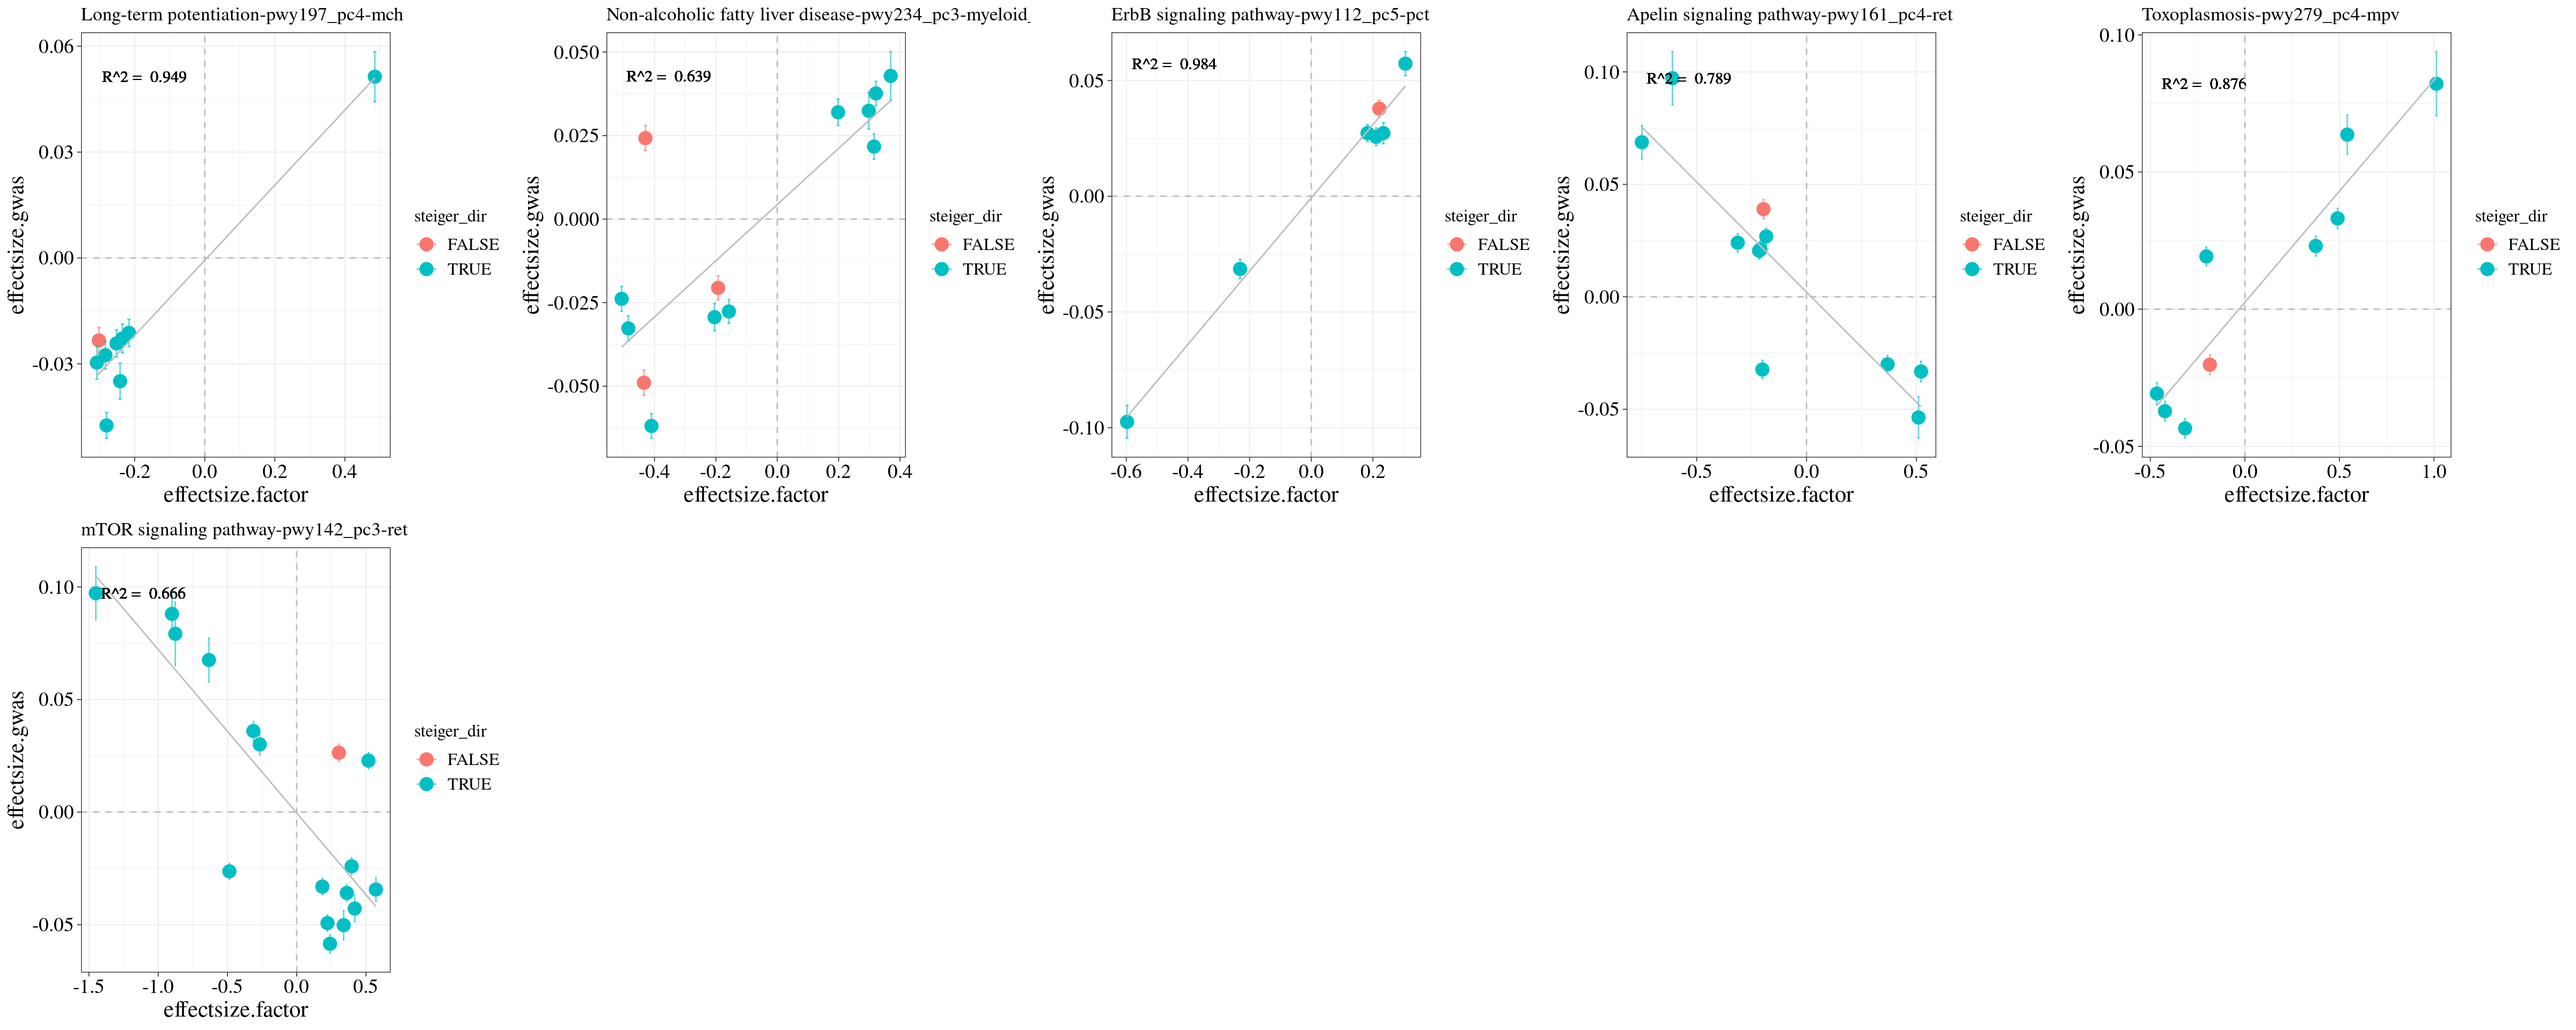
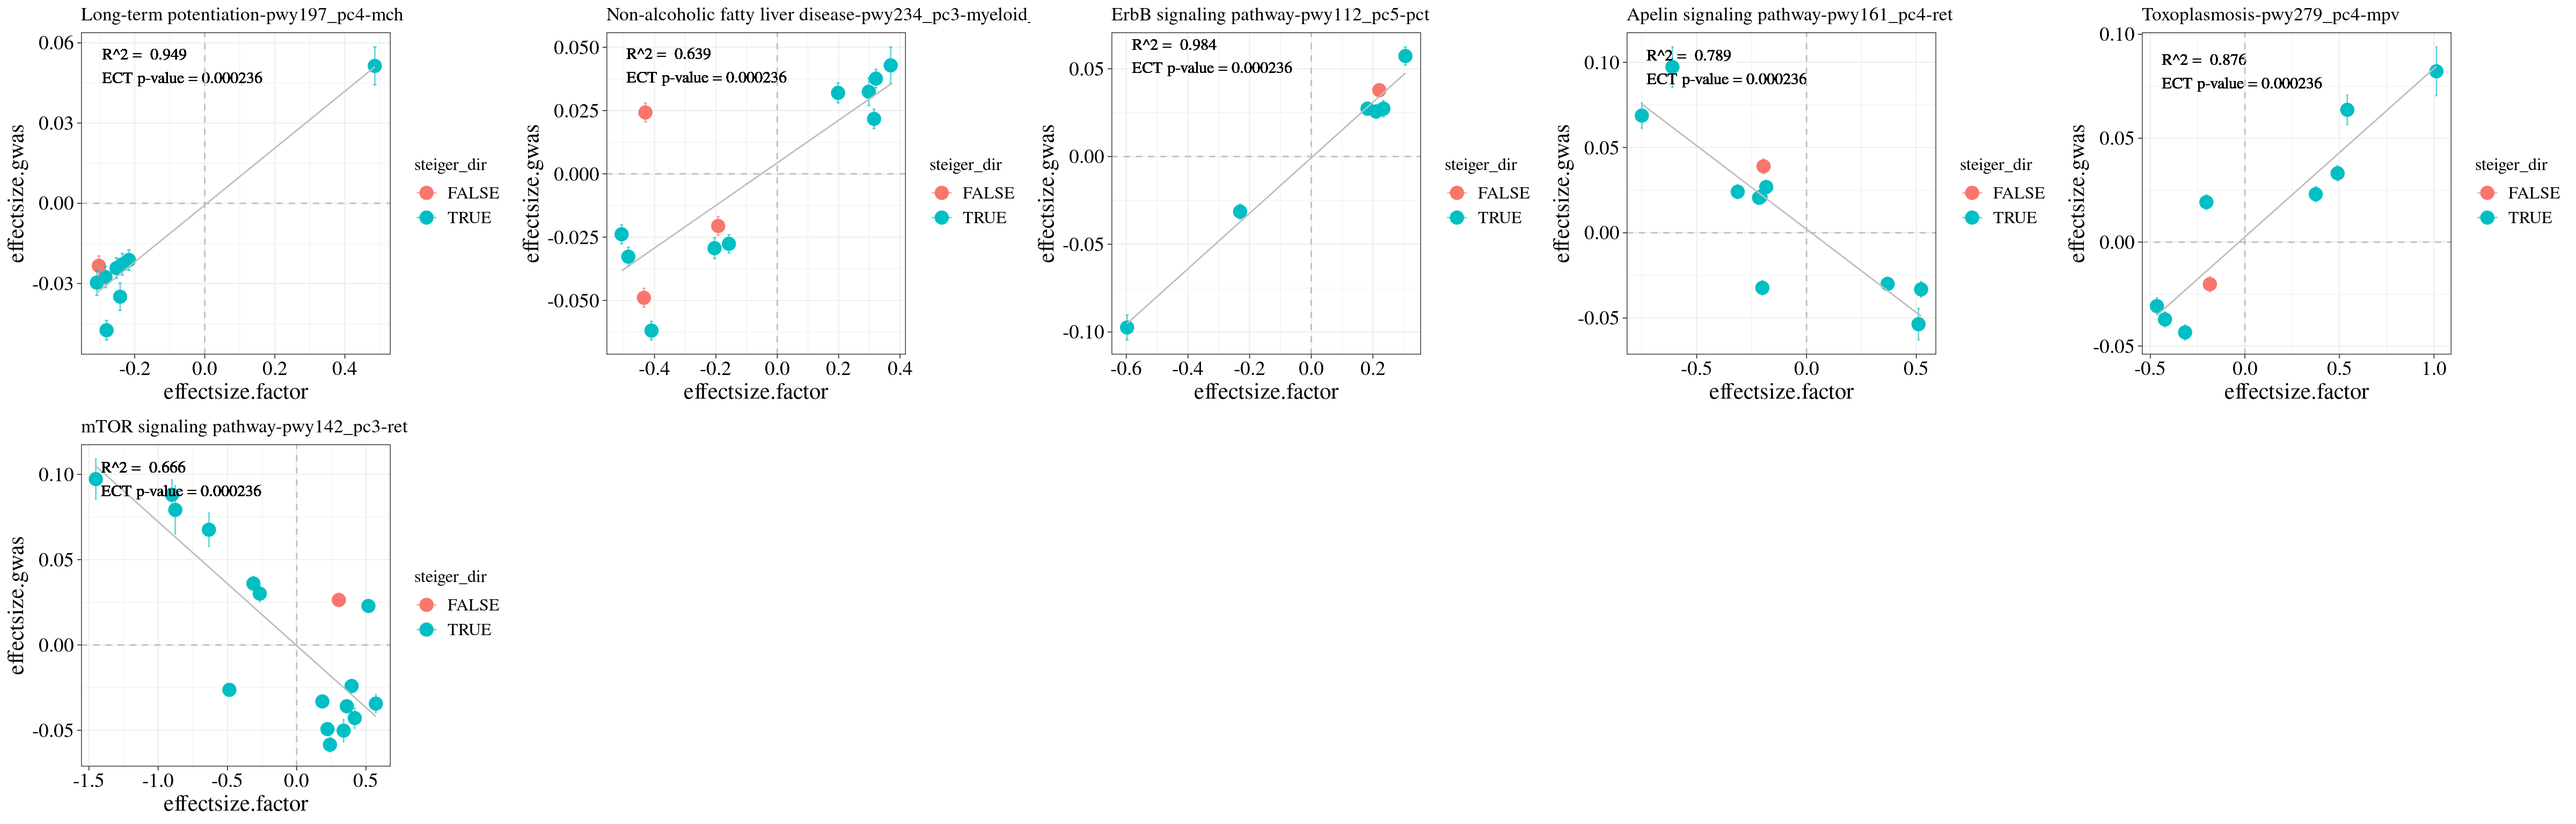
update

diff --git a/docs/rerun_ECT.html b/docs/rerun_ECT.html
@@ -547,15 +547,15 @@ project makes it easier to run your code on other machines.</p>
 <div class="panel panel-default">
 <div class="panel-heading">
 <p class="panel-title">
-<a data-toggle="collapse" data-parent="#workflowr-checks" href="#strongRepositoryversionstrongahrefhttpsgithubcomxsun1229factoranalysisnewtree22c132429889e4f513480c0af6fbfaf2f038aac2targetblank22c1324a">
+<a data-toggle="collapse" data-parent="#workflowr-checks" href="#strongRepositoryversionstrongahrefhttpsgithubcomxsun1229factoranalysisnewtree4beb577ddf96e3d00635c3512bf7fd7d86e9ad9ftargetblank4beb577a">
 <span class="glyphicon glyphicon-ok text-success"
 aria-hidden="true"></span> <strong>Repository version:</strong>
-<a href="https://github.com/xsun1229/factor_analysis_new/tree/22c132429889e4f513480c0af6fbfaf2f038aac2" target="_blank">22c1324</a>
+<a href="https://github.com/xsun1229/factor_analysis_new/tree/4beb577ddf96e3d00635c3512bf7fd7d86e9ad9f" target="_blank">4beb577</a>
 </a>
 </p>
 </div>
 <div
[2 lines of base64/hex data omitted]
 class="panel-collapse collapse">
 <div class="panel-body">
 <p>
@@ -565,7 +565,7 @@ reproducibility.
 </p>
 <p>
 The results in this page were generated with repository version
-<a href="https://github.com/xsun1229/factor_analysis_new/tree/22c132429889e4f513480c0af6fbfaf2f038aac2" target="_blank">22c1324</a>.
+<a href="https://github.com/xsun1229/factor_analysis_new/tree/4beb577ddf96e3d00635c3512bf7fd7d86e9ad9f" target="_blank">4beb577</a>.
 See the <em>Past versions</em> tab to see a history of the changes made
 to the R Markdown and HTML files.
 </p>
@@ -580,7 +580,6 @@ were generated:
 </p>
 <pre><code>
 Unstaged changes:
-    Modified:   analysis/re_run_1203.Rmd
     Modified:   analysis/rerun_ECT.Rmd
 
 </code></pre>
@@ -627,6 +626,40 @@ Message
 </tr>
 </thead>
 <tbody>
+<tr>
+<td>
+Rmd
+</td>
+<td>
+<a href="https://github.com/xsun1229/factor_analysis_new/blob/4beb577ddf96e3d00635c3512bf7fd7d86e9ad9f/analysis/rerun_ECT.Rmd" target="_blank">4beb577</a>
+</td>
+<td>
+XSun
+</td>
+<td>
+2023-12-06
+</td>
+<td>
+update
+</td>
+</tr>
+<tr>
+<td>
+html
+</td>
+<td>
+<a href="https://rawcdn.githack.com/xsun1229/factor_analysis_new/4beb577ddf96e3d00635c3512bf7fd7d86e9ad9f/docs/rerun_ECT.html" target="_blank">4beb577</a>
+</td>
+<td>
+XSun
+</td>
+<td>
+2023-12-06
+</td>
+<td>
+update
+</td>
+</tr>
 <tr>
 <td>
 Rmd
@@ -1237,6 +1270,43 @@ for (i in 1:nrow(df_sorted)){
 }
 do.call(&quot;grid.arrange&quot;, c(eff, ncol = 5))</code></pre>
 <p><img src="figure/rerun_ECT.Rmd/unnamed-chunk-9-1.png" width="2400" style="display: block; margin: auto;" /></p>
+<p>
+<button type="button" class="btn btn-default btn-xs btn-workflowr btn-workflowr-fig" data-toggle="collapse" data-target="#fig-unnamed-chunk-9-1">
+Past versions of unnamed-chunk-9-1.png
+</button>
+</p>
+<div id="fig-unnamed-chunk-9-1" class="collapse">
+<div class="table-responsive">
+<table class="table table-condensed table-hover">
+<thead>
+<tr>
+<th>
+Version
+</th>
+<th>
+Author
+</th>
+<th>
+Date
+</th>
+</tr>
+</thead>
+<tbody>
+<tr>
+<td>
+<a href="https://github.com/xsun1229/factor_analysis_new/blob/4beb577ddf96e3d00635c3512bf7fd7d86e9ad9f/docs/figure/rerun_ECT.Rmd/unnamed-chunk-9-1.png" target="_blank">4beb577</a>
+</td>
+<td>
+XSun
+</td>
+<td>
+2023-12-06
+</td>
+</tr>
+</tbody>
+</table>
+</div>
+</div>
 </div>
 <div id="checking-if-the-ect-ivs-pass-the-steiger-filtering"
 class="section level1">
@@ -1244,7 +1314,9 @@ class="section level1">
 <pre class="r"><code>load(&quot;/project/xinhe/xsun/pathway_factor/analysis/1.ECT/results/compare_snp_filtered.rdata&quot;)
 
 df_all &lt;- df_all[df_all$snp_pass_steiger_filter!=df_all$num_snp_pass_cutoff,]
-DT::datatable(df_all)</code></pre>
+print(&quot;The pairs containing the IVs not passing the Steiger filtering&quot;)</code></pre>
+<pre><code>[1] &quot;The pairs containing the IVs not passing the Steiger filtering&quot;</code></pre>
+<pre class="r"><code>DT::datatable(df_all)</code></pre>
 <div id="htmlwidget-ad41175326dc68f35292" style="width:100%;height:auto;" class="datatables html-widget"></div>
 <script type="application/json" data-for="htmlwidget-ad41175326dc68f35292">{"x":{"filter":"none","vertical":false,"data":[["292","417","1682","2781","3281","4354","4605","4846","5355","6797","2562","2772","6077","6105","7664","7679","7803","7834","8564","3037","3053","3103","3207"],["gran","gran","mch","mpv","myeloid_wbc","pct","rbc","rbc","ret","EUR.UC","mchc","mchc","rbc","rbc","baso","baso","baso","baso","EUR.IBD","ret","ret","ret","ret"],["pwy144_pc2","pwy234_pc3","pwy197_pc4","pwy279_pc4","pwy234_pc3","pwy112_pc5","pwy101_pc4","pwy289_pc4","pwy161_pc4","pwy145_pc1","pwy144_pc5","pwy299_pc3","pwy287_pc1","pwy304_pc1","pwy216_pc1","pwy223_pc1","pwy299_pc1","pwy315_pc2","pwy183_pc5","pwy113_pc4","pwy117_pc3","pwy142_pc3","pwy202_pc4"],["AMPK signaling pathway","Non-alcoholic fatty liver disease","Long-term potentiation","Toxoplasmosis","Non-alcoholic fatty liver disease","ErbB signaling pathway","Spliceosome","Human T-cell leukemia virus 1 infection","Apelin signaling pathway","Apoptosis","AMPK signaling pathway","MicroRNAs in cancer","Influenza A","Glioma","Progesterone-mediated oocyte maturation","Oxytocin signaling pathway","MicroRNAs in cancer","Hepatocellular carcinoma","Natural killer cell mediated cytotoxicity","Ras signaling pathway","cAMP signaling pathway","mTOR signaling pathway","Cholinergic synapse"],[0.0014999,0.000456,2.8e-05,0.00021,3.9e-05,3.1e-05,0.0012999,0.000849,0.000121,0.001476,0.0005,0.000109,0.000387,0.000197,0.000433,0.00059,0.00025,0.000687,0.000301,0.000715,0.000169,0.000104,0.000343],[0.194959224074074,0.140087541666667,0.0645748,0.093879125,0.0645748,0.0645748,0.186204042857143,0.175268558823529,0.0877375,0.194959224074074,0.193174137931034,0.193174137931034,0.193174137931034,0.193174137931034,0.193174137931034,0.193174137931034,0.193174137931034,0.197645921052632,0.193174137931034,0.1869725,0.117849333333333,0.0945584,0.144348],[11,9,9,9,13,7,7,10,11,3,4,10,6,7,11,8,11,9,4,10,12,17,6],[9,8,8,8,10,6,6,9,10,2,3,8,5,5,10,7,10,8,3,9,10,16,5],["B cell (CD19+)","B cell (CD19+)","B cell (CD19+)","B cell (CD19+)","B cell (CD19+)","B cell (CD19+)","B cell (CD19+)","B cell (CD19+)","B cell (CD19+)","B cell (CD19+)","Monocyte (CD14+)","Monocyte (CD14+)","Monocyte (CD14+)","Monocyte (CD14+)","Monocyte (CD14+)","Monocyte (CD14+)","Monocyte (CD14+)","Monocyte (CD14+)","Monocyte (CD14+)","Platelet","Platelet","Platelet","Platelet"]],"container":"<table class=\"display\">\n  <thead>\n    <tr>\n      <th> <\/th>\n      <th>trait<\/th>\n      <th>factor<\/th>\n      <th>pwy_name<\/th>\n      <th>pval_ECT<\/th>\n      <th>fdr_ECT<\/th>\n      <th>num_snp_pass_cutoff<\/th>\n      <th>snp_pass_steiger_filter<\/th>\n      <th>celltypes<\/th>\n    <\/tr>\n  <\/thead>\n<\/table>","options":{"columnDefs":[{"className":"dt-right","targets":[4,5,6,7]},{"orderable":false,"targets":0}],"order":[],"autoWidth":false,"orderClasses":false}},"evals":[],"jsHooks":[]}</script>
 <pre class="r"><code>df_sorted &lt;- df_all[order(as.numeric(df_all$fdr_ECT), decreasing = F),]
@@ -1288,8 +1360,10 @@ for (i in 1:nrow(df_sorted)){
   
   geom_smooth(method = lm, se = F, color = &quot;grey&quot;, size = 0.5) +
   
-  geom_label(aes(x = min(beta.exposure), y =max(beta.outcome)), hjust = 0, 
-             label = paste(&quot;R^2 = &quot;,signif(summary(fit)$r.squared, 3)),
+   geom_label(aes(x = min(beta.exposure), y =max(beta.outcome)), hjust = 0, 
+             label = paste(&quot;R^2 = &quot;,signif(summary(fit)$r.squared, 3),
+                           
+                           &quot; \nECT p-value =&quot;,ect_p),
              #&quot; \np-value =&quot;,signif(summary(fit)$coef[1,4], 3)),
              color = &quot;black&quot;,
              family = &quot;Times&quot;,
@@ -1305,6 +1379,43 @@ for (i in 1:nrow(df_sorted)){
 }
 do.call(&quot;grid.arrange&quot;, c(eff, ncol = 5))</code></pre>
 <p><img src="figure/rerun_ECT.Rmd/unnamed-chunk-10-2.png" width="2400" style="display: block; margin: auto;" /></p>
+<p>
+<button type="button" class="btn btn-default btn-xs btn-workflowr btn-workflowr-fig" data-toggle="collapse" data-target="#fig-unnamed-chunk-10-2">
+Past versions of unnamed-chunk-10-2.png
+</button>
+</p>
+<div id="fig-unnamed-chunk-10-2" class="collapse">
+<div class="table-responsive">
+<table class="table table-condensed table-hover">
+<thead>
+<tr>
+<th>
+Version
+</th>
+<th>
+Author
+</th>
+<th>
+Date
+</th>
+</tr>
+</thead>
+<tbody>
+<tr>
+<td>
+<a href="https://github.com/xsun1229/factor_analysis_new/blob/4beb577ddf96e3d00635c3512bf7fd7d86e9ad9f/docs/figure/rerun_ECT.Rmd/unnamed-chunk-10-2.png" target="_blank">4beb577</a>
+</td>
+<td>
+XSun
+</td>
+<td>
+2023-12-06
+</td>
+</tr>
+</tbody>
+</table>
+</div>
+</div>
 <br>
 <p>
 <button type="button" class="btn btn-default btn-workflowr btn-workflowr-sessioninfo" data-toggle="collapse" data-target="#workflowr-sessioninfo" style="display: block;">
